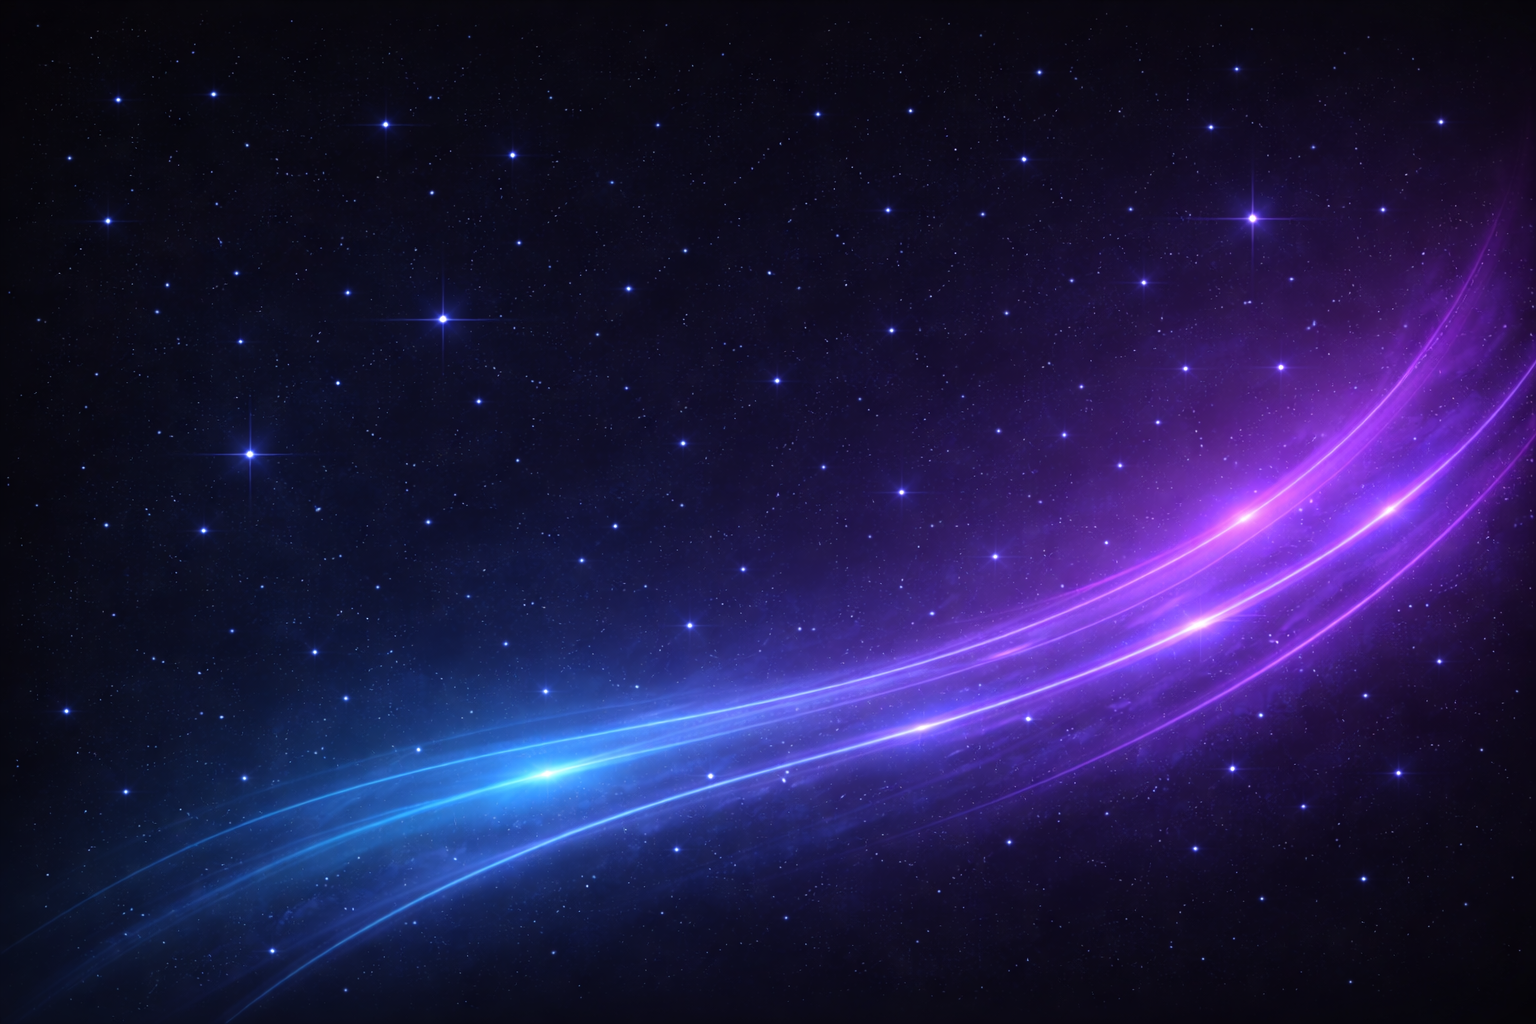
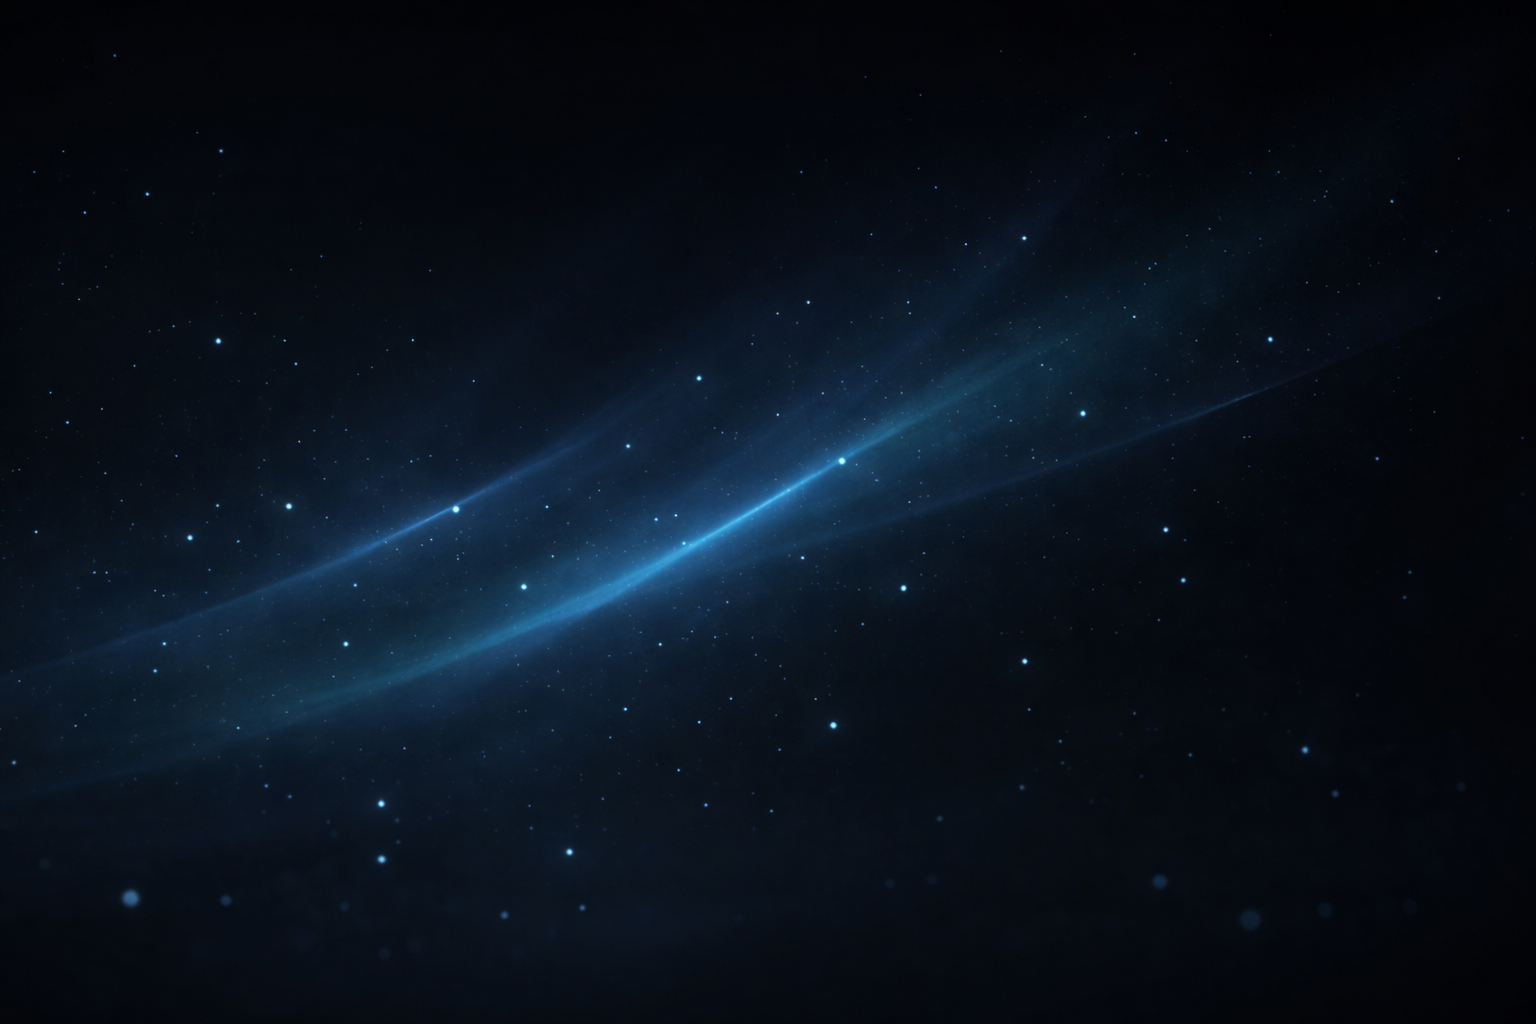
Add files via upload

diff --git a/index.html b/index.html
@@ -3,7 +3,7 @@
 <head>
     <meta charset="UTF-8">
     <meta name="viewport" content="width=device-width, initial-scale=1.0">
-    <title>Alex | Portafolio</title>
+    <title>Alex | Portfolio</title>
 
 
     <!-- Estilos -->
@@ -36,7 +36,7 @@
             <div class="hero__content">
                 <h1 class="hero__title">Hola, soy Alex</h1>
                 <p class="hero__desc">Desarollador Front-End en formación.</p>
-                <a class="btn" href="#proyecto">Ver Proyectos</a>
+                <a class="btn" href="#proyectos">Ver Proyectos</a>
             </div>
         </section>
 
@@ -46,10 +46,11 @@
                 <div class="about__text">
                     <h2>Sobre mí</h2>
                     <p>
-                        Soy Alex, estudiante de programación enfocado en desarrollo Front-End.
-                        Actualmente estoy aprendiendo HTML, CSS y JavaScript creando proyectos
-                        prácticos como este portafolio y una web inspirada en Plants vs Zombies.
-                    </p>
+                       Soy desarrollador Front-End en formación, enfocado en crear interfaces modernas, limpias y funcionales.
+
+                        Actualmente trabajo con HTML, CSS y JavaScript, desarrollando proyectos prácticos como este portafolio y una interfaz inspirada en Plants vs Zombies.
+
+                        Me interesa seguir mejorando mis habilidades, aprender nuevas tecnologías y convertirme en desarrollador profesional.
 
                     <p>
                         Me gusta crear interfaces visuales, aprender nuevas tecnologías y mejorar
@@ -60,6 +61,15 @@
                 <div class="about__image">
                     <img src="assets/img/perfil.png" alt="Foto de perfil">
                 </div>
+                
+            </div>
+
+            <div class="about__skills">
+                <span>HTML</span>
+                <span>CSS</span>
+                <span>JavaScript</span>
+                <span>Python</span>
+                <span>Java</span>
             </div>
         </section>
 
@@ -69,25 +79,47 @@
             <h2 class="projects__title">Mis Proyectos</h2>
 
             <div class="projects__container">
-                <div class="card">
+                <div class="card fade-in">
                     <img src="assets/projects/Proyect-1.png" alt="Proyecto 1">
-                    <h3>Landing Page - Plantas Vs Zombies: Reborn</h3>
-                    <p>Creación de un lading page de uno de mis juegos favoritos.</p>
-                    <a class="btn" href="#">Ver Más</a>
+                    <h3>
+                        Landing Page <br> Plantas Vs Zombies: Reborn
+                    </h3>
+                    <p>
+                        Creación de un lading page de uno de mis juegos favoritos.
+                    </p>
+                    <div class="projects__buttons">
+                        <a href="#" target="_blank">Ver Más</a>
+                        <a href="#" target="_blank">GitHub</a>
+                    </div>
+                    
                 </div>
 
-                <div class="card">
-                    <img src="assets/projects/proyecto2.png" alt="Proyecto 2">
-                    <h3>Proyecto 2</h3>
-                    <p>Descripción corta.</p>
-                    <a class="btn" href="#">Ver Más</a>
+                <div class="card fade-in">
+                    <img src="assets/projects/Proyect.png" alt="Proyecto 2">
+                    <h3>
+                        UI Card System
+                    </h3>
+                    <p>
+                        Sistema de cartas - user interfaces
+                    </p>
+                    <div class="projects__buttons">
+                        <a href="#" target="_blank">Ver Más</a>
+                        <a href="#" target="_blank">GitHub</a>
+                    </div>
                 </div>
 
-                <div class="card">
-                    <img src="assets/projects/proyecto2.png" alt="Proyecto 3">
-                    <h3>Proyecto 2</h3>
-                    <p>Descripción corta.</p>
-                    <a class="btn" href="#">Ver Más</a>
+                <div class="card fade-in">
+                    <img src="assets/projects/Proyect1.png" alt="Proyecto 3">
+                    <h3>
+                        Landing Page Moderna
+                    </h3>
+                    <p>
+                        Creación de paginas modernas.
+                    </p>
+                    <div class="projects__buttons">
+                        <a href="#" target="_blank">Ver Más</a>
+                        <a href="#" target="_blank">GitHub</a>
+                    </div>
                 </div>
             </div>
         </section>
@@ -103,14 +135,16 @@
             <p>Desarrollador Front-End en formación</p>
 
             <div class="footer__social">
-                <a href="#">GitHub</a>
+                <a href="https://github.com/aleexx-ma" target="_blank">GitHub</a>
                 <a href="#">LinkedIn</a>
-                <a href="#">Correo</a>
+                <a href="mailto:venturamontroyjulio@gmail.com?subject=Trabajo&body=Hola, estoy interesado">Correo</a>
             </div>
 
             <p class="footer__copy">© 2026 Alex — Todos los derechos reservados</p>
 
         </div>
     </footer>
+
+    <script src="js/script.js"></script>
 </body>
 </html>

diff --git a/css/style.css b/css/style.css
@@ -5,6 +5,10 @@
     box-sizing: border-box;
 }
 
+html {
+    scroll-behavior: smooth;
+}
+
 /* --- BODY ---*/
 body {
     font-family: 'Poppins', sans-serif;
@@ -40,6 +44,16 @@ body {
     text-decoration: none;
     color: white;
     font-weight: 600;
+    transition: all 0.3s ease;
+}
+
+.navbar-links a:hover {
+    color: #8a6cff;
+}
+
+/* --- SECTION ---*/
+section {
+    margin-bottom: 60px;
 }
 
 /* --- HERO --- */
@@ -54,10 +68,13 @@ body {
 
 .hero__title {
     font-size: 3rem;
+    font-weight: 700;
+    letter-spacing: 1px;
 }
 
 .hero__desc {
     margin: 10px 0 20px;
+    color: #ccc;
 }
 
 .btn {
@@ -67,19 +84,26 @@ body {
     color: white;
     text-decoration: none;
     font-weight: 600;
+    transition: all 0.3s ease;
+}
+
+.btn:hover {
+    transform: scale(1.05);
+    background: #8a6cff;
 }
 
 /* --- ABOUT --- */
 .about {
     padding: 100px 40px;
     background: #111;
+    justify-items: center;
 }
 
 .about__content {
     display: flex;
     align-items: center;
     justify-content: center;
-    gap: 50px;
+    gap: 60px;
     max-width: 1100px;
     margin: auto;
 }
@@ -90,17 +114,42 @@ body {
 
 .about__text h2 {
     font-size: 2.5rem;
+    font-weight: 600;
     margin-bottom: 20px;
 }
 
 .about__text p {
     margin-bottom: 15px;
     line-height: 1.6;
+    color: #ccc
 }
 
 .about__image img {
     width: 250px;
     border-radius: 20px;
+}
+
+.about__skills {
+    margin-top: 20px;
+    display: flex;
+    gap: 10px;
+    flex-wrap: wrap;
+}
+
+.about__skills span {
+    background: #1f1f1f;
+    padding: 8px 12px;
+    border-radius: 20px;
+    font-size: 0.8rem;
+    border: 1px solid #333;
+}
+
+.about__skills span {
+    transition: all 0.3s ease;
+}
+
+.about__skills span:hover {
+    background: #896cffa7;
 }
 
 /* --- PROYECTOS --- */
@@ -113,7 +162,27 @@ body {
     margin-top: 40px;
     display: grid;
     grid-template-columns: repeat(3, 1fr);
-    gap: 25px;
+    gap: 40px;
+}
+
+.projects__buttons {
+    display: flex;
+    justify-content: center;
+    gap: 10px;
+}
+
+.projects__buttons a {
+    text-decoration: none;
+    background: #8a6cff;
+    padding: 8px 12px;
+    border-radius: 8px;
+    color: white;
+    font-size: 0.8rem;
+    transition: all 0.3s ease;
+}
+
+.projects__buttons a:hover{
+    background: #6c4cff;
 }
 
 .card {
@@ -124,11 +193,39 @@ body {
     border-radius: 10px;
     gap: 5px;
     align-items: center;
+    box-shadow: 0 10px 25px rgba(0, 0, 0, 0.3);
+    transition: all 0.4s ease;
+}
+
+.card h3 {
+    font-weight: 600;
+    margin-bottom: 5px;
+}
+.card p {
+    color: #ccc;
+    margin-bottom: 5px;
 }
 
 .card img {
     width: 100%;
     border-radius: 10px;
+    margin-bottom: 5px;
+}
+
+/* --- ANIMACIÓN CARTAS --- */
+.fade-in {
+    opacity: 0;
+    transform: translateY(60px);
+    transition: opacity 0.8s ease, transform 0.8s ease;
+}
+
+.fade-in.visible {
+    opacity: 1;
+    transform: translateY(0);
+}
+
+.card:hover {
+    transform: translateY(-4px) scale(1.02)
 }
 
 /* --- FOOTER --- */
@@ -145,6 +242,7 @@ body {
 .footer__container p {
     margin-bottom: 15px;
     font-size: 0.9rem;
+    color: #ccc
 }
 
 .footer__social {
@@ -206,3 +304,4 @@ body {
         grid-template-columns: 1fr;
     }
 }
+

diff --git a/js/script.js b/js/script.js
@@ -1,0 +1,15 @@
+const elements = document.querySelectorAll(".fade-in");
+
+function showOnScroll() {
+    elements.forEach((el, index) => {
+        const rect = el.getBoundingClientRect();
+
+        if (rect.top < window.innerHeight - 100) {
+            setTimeout(() => {
+                el.classList.add("visible");
+            }, index * 150);
+        }
+    });
+}
+
+window.addEventListener("scroll", showOnScroll);
